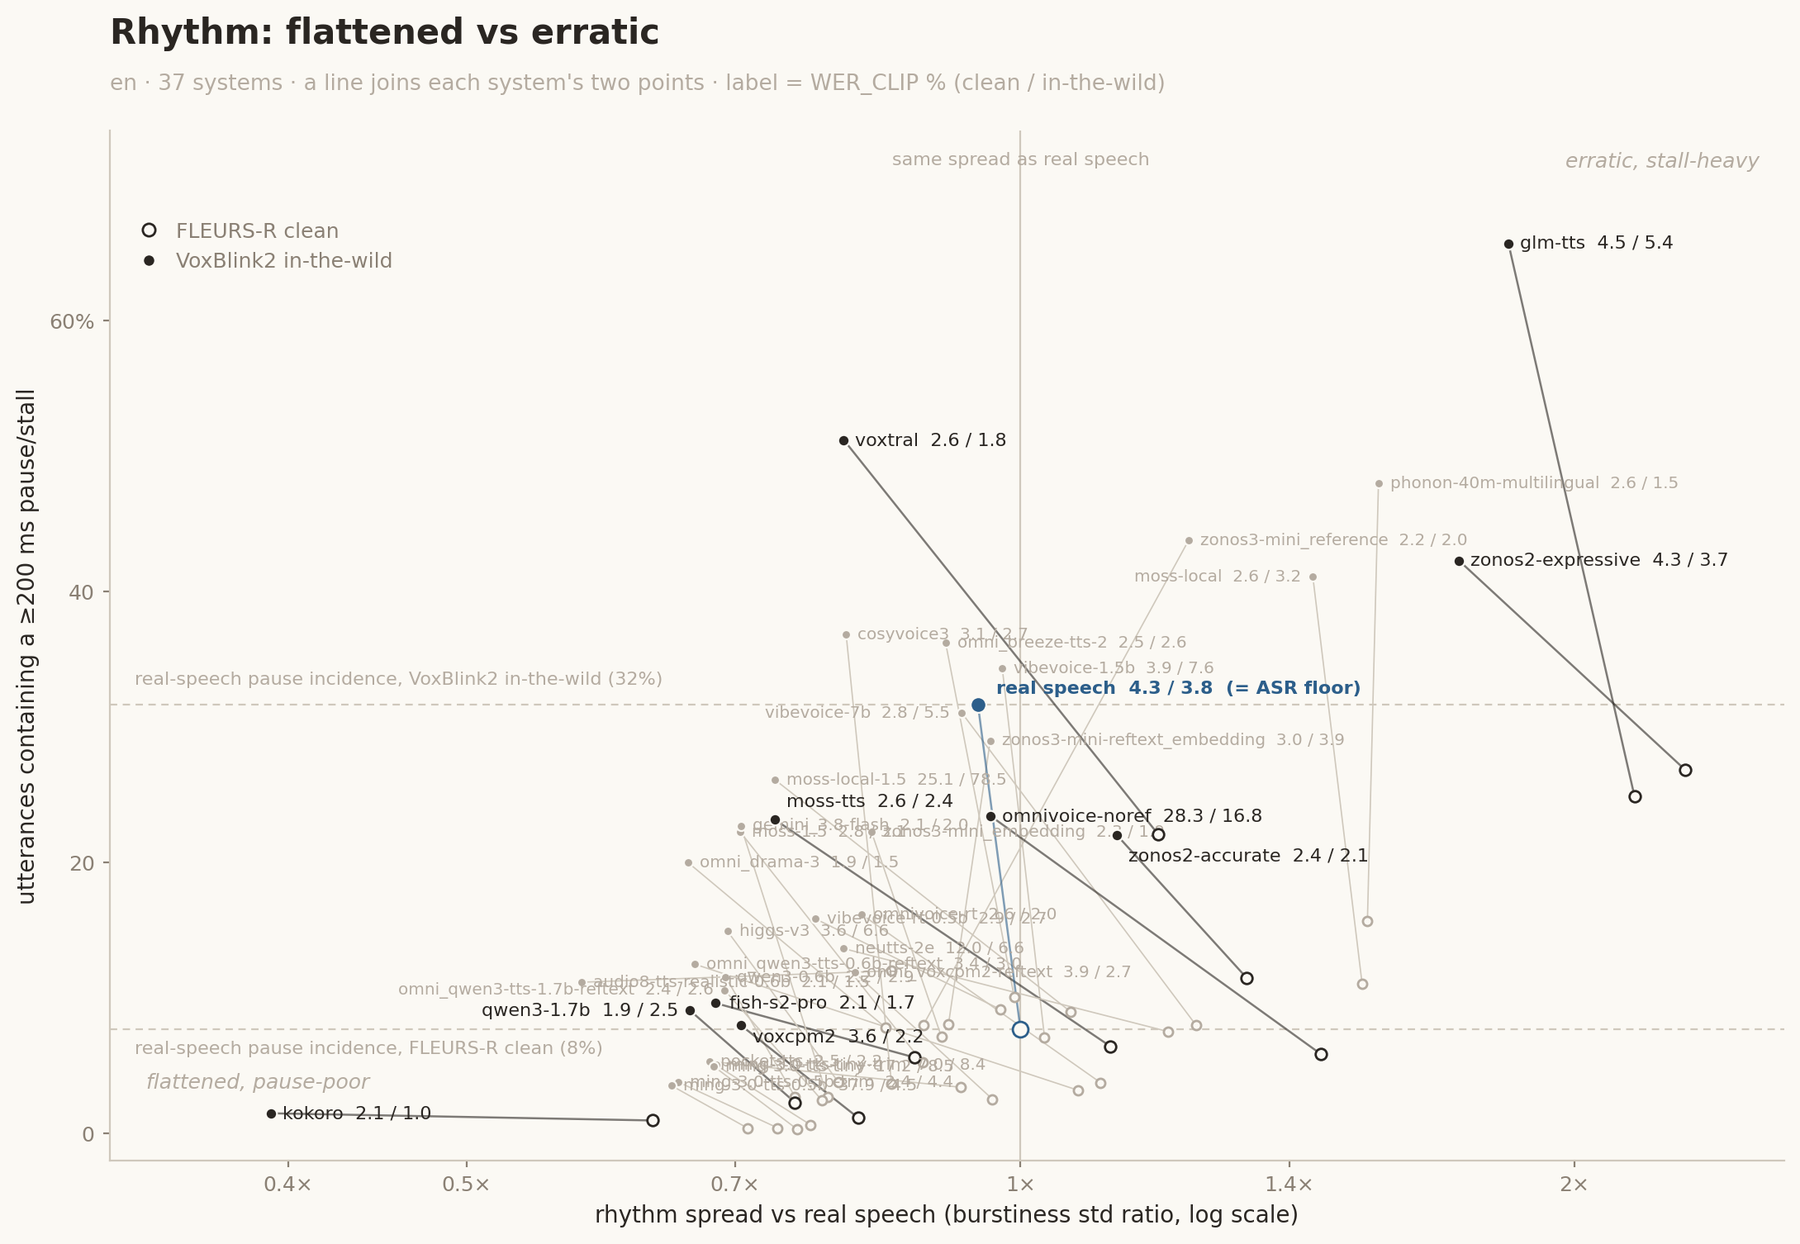
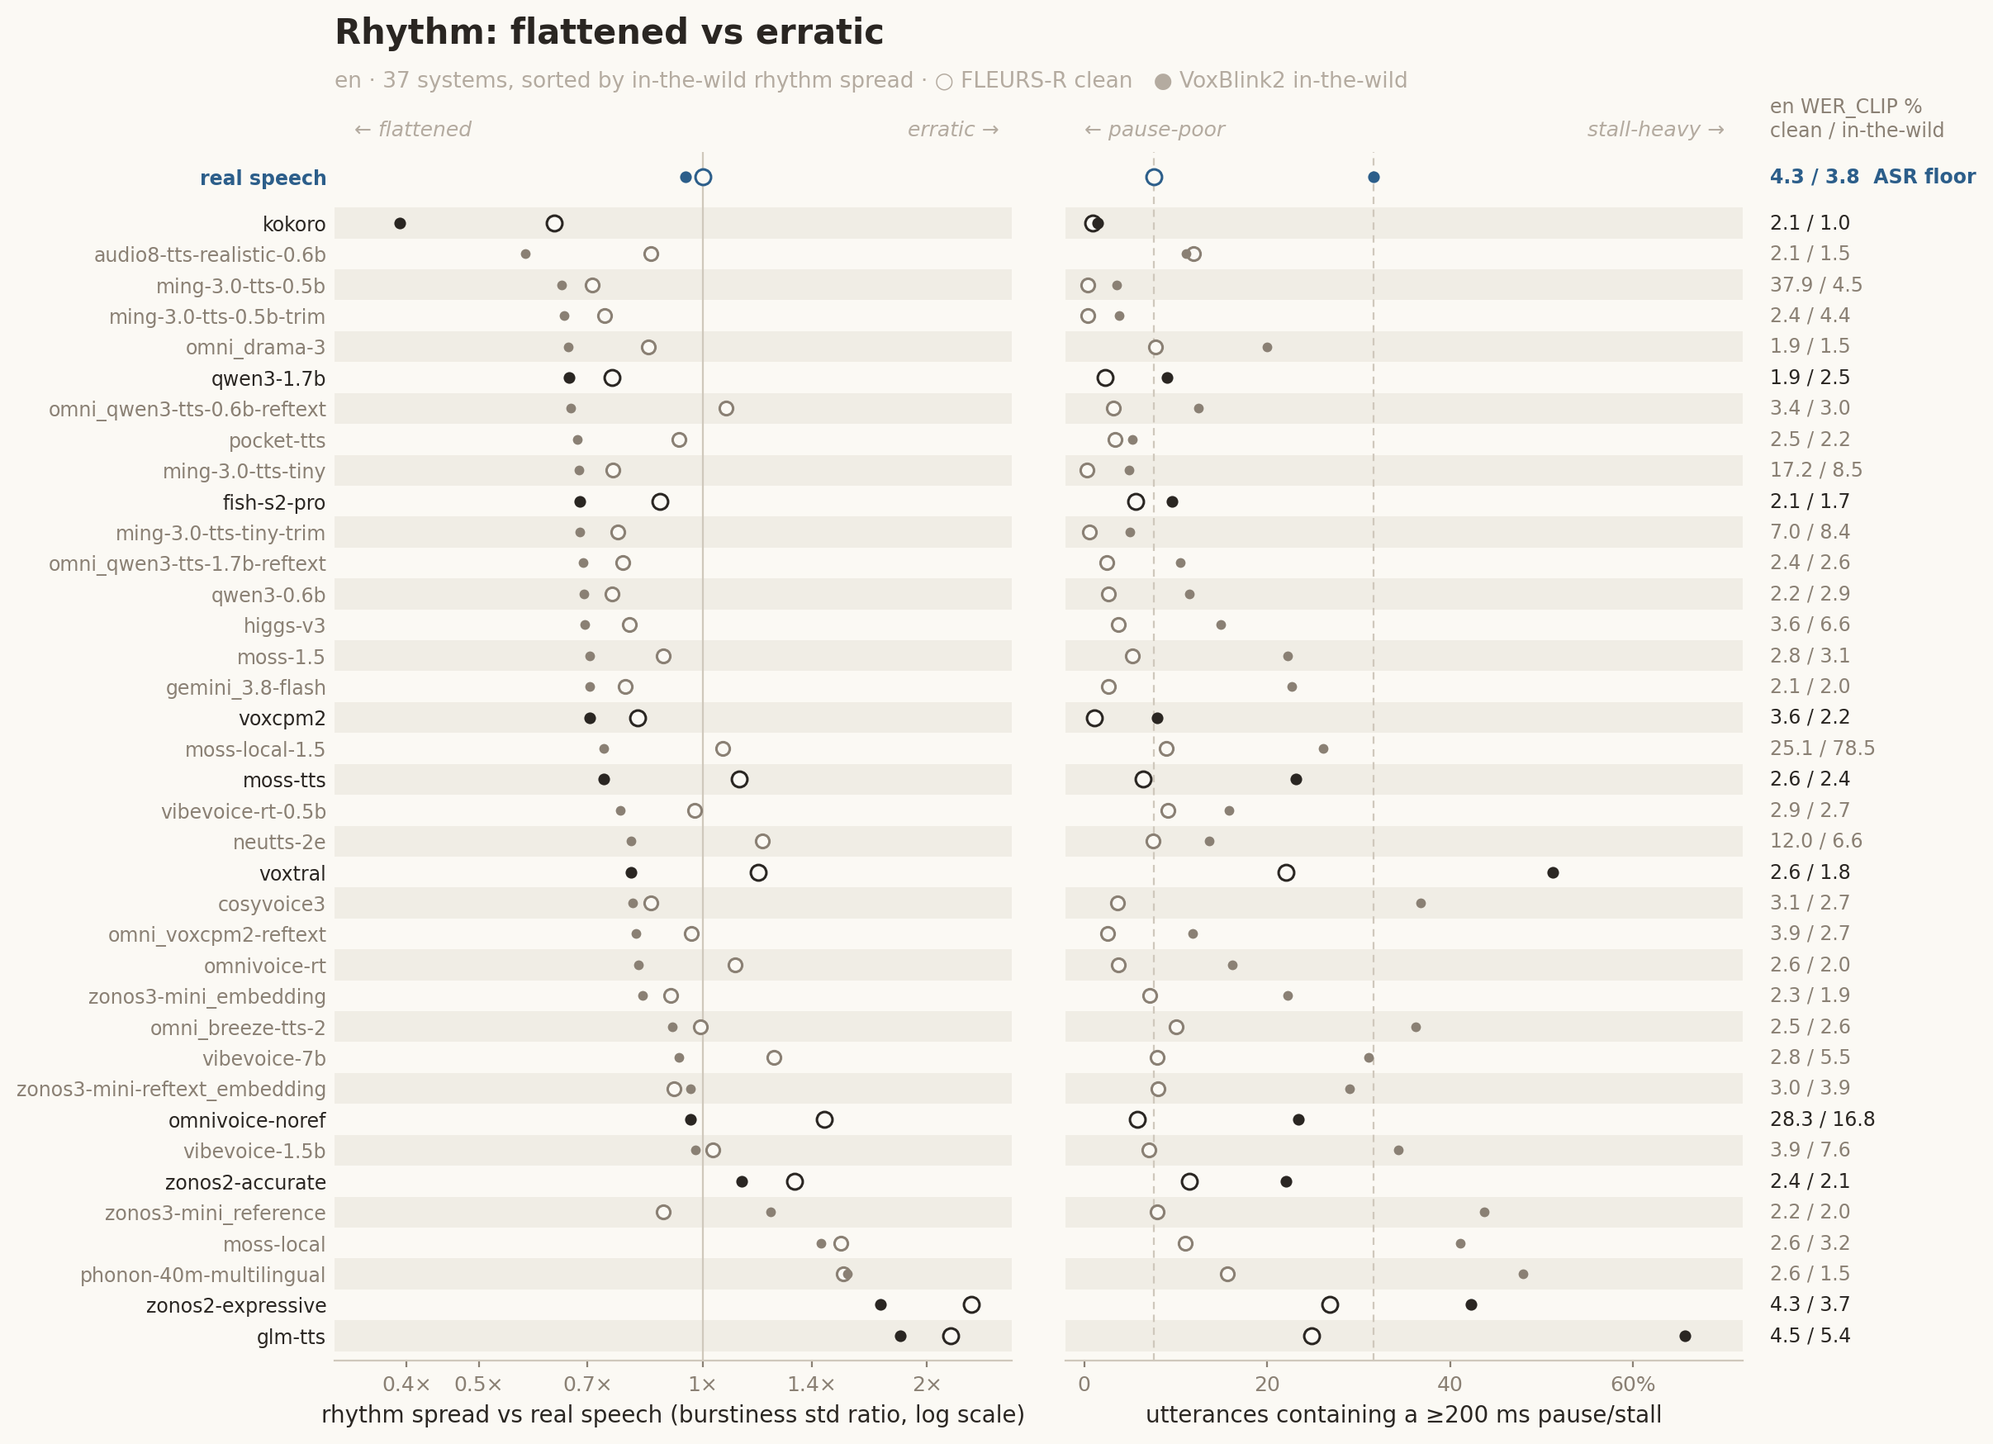
plots: redraw the rhythm figure as a row-per-system dot plot
- One row per system (sorted by in-the-wild spread), spread and pause-incidence columns, hollow = clean and filled = in-the-wild on the same row, WER_CLIP clean / in-the-wild in its own column; no connector lines or floating labels.
- Real speech is the blue top row plus reference lines; the per-plot label NUDGE tables are gone.
- docs/rhythm.md summary describes the new layout.

diff --git a/scripts/plots/plot_rhythm_scatter.py b/scripts/plots/plot_rhythm_scatter.py
@@ -1,14 +1,14 @@
-"""Rhythm flattened-vs-erratic scatter: FLEURS-R clean and VoxBlink2 in-the-wild on one plot.
+"""Rhythm flattened-vs-erratic dot plot: FLEURS-R clean and VoxBlink2 in-the-wild.
 
-One dot per system and set: x = burstiness std_ratio (system spread / real-speech
-spread, log scale — < 1 is rhythm flattened, > 1 erratic), y = long_pct (% of
-utterances containing a >=200 ms pause/stall run). Clean points are hollow,
-in-the-wild points filled, and a line joins each system's two points; the label sits
-on the in-the-wild point and carries the system's WER_CLIP on both sets. The blue
-pair is real speech: the GT target recordings where the set has them (in-the-wild),
-else the reference prompts' split-half row (clean, whose GT wavs are the prompts and
-are not scored). Lower-left = flattened, pause-poor; upper-right = erratic,
-stall-heavy; good = near the real-speech point of the same set.
+One row per system, sorted by in-the-wild rhythm spread (flattened on top, erratic at
+the bottom). Left: burstiness std_ratio (system spread / real-speech spread, log scale —
+< 1 is rhythm flattened, > 1 erratic). Right: long_pct (% of utterances containing a
+>=200 ms pause/stall run). Each row carries a hollow marker for clean and a filled one
+for in-the-wild, and the column on the right prints the system's WER_CLIP on both
+sets. The blue top row is real speech: the GT target recordings where the set has them
+(in-the-wild), else the reference prompts' split-half row (clean, whose GT wavs are the
+prompts and are not scored); its values are also drawn as reference lines. Good = close
+to the real-speech markers of the same set.
 
 Reads results/rhythm_<set>_<lang>.csv (scripts/prosody/rhythm_dist.py output).
 
@@ -29,8 +29,7 @@ import sys
 from pathlib import Path
 REPO = str(Path(__file__).resolve().parents[2])
 sys.path.insert(0, REPO)
-from matplotlib.lines import Line2D  # noqa: E402
-from scripts.plots.tufte_common import PAPER, INK, MUT, GREY, MID, BLUE  # noqa: E402
+from scripts.plots.tufte_common import PAPER, INK, MUT, GREY, ENS, MID, BLUE  # noqa: E402
 from scripts.prosody.common import CEILING_ROW  # noqa: E402
 from utils.benchmark import leaf_dir, wer_footer  # noqa: E402
 
@@ -63,57 +62,6 @@ FOREGROUND = {
 }
 
 SET_LABEL = {"clean": "FLEURS-R clean", "in-the-wild": "VoxBlink2 in-the-wild"}
-
-# label offset (points) and horizontal alignment per plot and system, tuned by eye.
-# default is a small right-offset; entries here override collisions. "both" is the
-# merged plot, labelled at the in-the-wild points.
-NUDGE = {
-    "both": {
-        "real speech": (8, 7, "left"),
-        "moss-tts": (5, 8, "left"),
-        "zonos2-accurate": (5, -9, "left"),
-        "qwen3-1.7b": (-5, 0, "right"),
-        "fish-s2-pro": (6, 0, "left"),
-        "voxcpm2": (5, -5, "left"),
-        "omni_qwen3-tts-1.7b-reftext": (-5, 0, "right"),
-        "vibevoice-7b": (-5, 0, "right"),
-        "moss-local": (-5, 0, "right"),
-    },
-    "in-the-wild": {
-        "GT (real speech)": (8, 7, "left"),
-        "moss-1.5": (-5, 0, "right"),
-        "qwen3-0.6b": (5, 4, "left"),
-        "fish-s2-pro": (6, 2, "left"),
-        "qwen3-1.7b": (5, -1, "left"),
-        "voxcpm2": (5, -5, "left"),
-        "zonos2-expressive": (-5, 0, "right"),
-        "vibevoice-7b": (-5, 0, "right"),
-        "cosyvoice3": (-5, 0, "right"),
-        "higgs-v3": (-5, 0, "right"),
-    },
-    "clean": {
-        "real speech (reference prompts)": (6, 9, "left"),
-        "kokoro": (-5, 0, "right"),
-        "qwen3-1.7b": (-5, 0, "right"),
-        "fish-s2-pro": (-5, 0, "right"),
-        "moss-tts": (5, -4, "left"),
-        "zonos2-accurate": (5, 5, "left"),
-        "moss-local": (5, -3, "left"),
-        "moss-1.5": (5, -4, "left"),
-        "omni_breeze-tts-2": (-5, 0, "right"),
-        "omni_drama-3": (-5, 0, "right"),
-        "vibevoice-rt-0.5b": (-5, 0, "right"),
-        "vibevoice-1.5b": (5, -4, "left"),
-        "moss-local-1.5": (-5, 0, "right"),
-        "zonos3-mini_reference": (-5, 0, "right"),
-        "zonos3-mini_embedding": (5, -4, "left"),
-        "zonos3-mini-reftext_embedding": (-5, 0, "right"),
-        "ming-3.0-tts-0.5b": (5, -4, "left"),
-        "ming-3.0-tts-0.5b-trim": (5, -4, "left"),
-        "ming-3.0-tts-tiny": (5, -4, "left"),
-        "ming-3.0-tts-tiny-trim": (5, -4, "left"),
-    },
-}
 
 
 def wer_clip(system, test_set, lang):
@@ -150,102 +98,108 @@ def load(csv_path, test_set, lang):
     return rows, anchor
 
 
-def draw(ax, data, lang):
-    """data = [(test_set, rows, anchor)]. With two sets each system's points are joined
-    (first set hollow, second filled) and labelled once, at the second set's point."""
+def draw(ax_x, ax_y, data, lang):
+    """data = [(test_set, rows, anchor)]. One row per system; with two sets the first is
+    drawn hollow and the second filled on the same row."""
     two = len(data) == 2
     sets = [s for s, _, _ in data]
-    ax.set_facecolor(PAPER)
-    ax.set_xscale("log")
-    ax.set_xlim(0.32, 2.6)
-    ax.set_ylim(-2, 74)
-
-    # reference geometry: spread parity line + each set's real-speech pause incidence
-    ax.axvline(1.0, color=GREY, lw=0.8, zorder=1)
-    ax.text(1.0, 72.5, "same spread as real speech", color=MUT, fontsize=8,
-            ha="center", va="top")
-    for test_set, _, anchor in data:
-        ax.axhline(anchor["y"], color=GREY, lw=0.8, ls=(0, (4, 3)), zorder=1)
-        which = f", {SET_LABEL[test_set]}" if two else ""
-        below = two and test_set == sets[0]    # keeps the space above it for labels
-        ax.text(0.33, anchor["y"] + (-0.8 if below else 1.2),
-                f"real-speech pause incidence{which} ({anchor['y']:.0f}%)",
-                color=MUT, fontsize=8, ha="left", va="top" if below else "bottom")
-
-    # regime annotations
-    ax.text(0.335, 3.0 if two else 3.5, "flattened, pause-poor",
-            color=MUT, fontsize=9, ha="left", va="bottom", style="italic")
-    ax.text(2.52, 72.5, "erratic, stall-heavy", color=MUT, fontsize=9,
-            ha="right", va="top", style="italic")
-
-    # one series per system across the sets; the two real-speech anchors form one series
     series = {}
-    for test_set, rows, anchor in data:
-        for r in rows + [anchor]:
-            name = "real speech" if two and r.get("anchor") else r["system"]
-            series.setdefault(name, []).append((test_set, r))
+    for test_set, rows, _ in data:
+        for r in rows:
+            series.setdefault(r["system"], {})[test_set] = r
+    key = sets[-1]   # sort by the last set's spread: flattened on top, erratic at the bottom
+    order = sorted(series, key=lambda n: (series[n].get(key) or next(iter(series[n].values())))["x"])
+    real = "real speech" if two else data[0][2]["system"]
+    rows = [(real, {s: a for s, _, a in data})] + [(n, series[n]) for n in order]
+    ys = [0] + [i + 1.5 for i in range(len(order))]   # a gap under the real-speech row
 
-    nudge = NUDGE["both"] if two else NUDGE.get(sets[0], {})
-    for name, pts in series.items():
-        is_anchor = pts[0][1].get("anchor", False)
-        fg = is_anchor or name in FOREGROUND
-        color = BLUE if is_anchor else (INK if fg else MUT)
-        if len(pts) == 2:
-            ax.plot([r["x"] for _, r in pts], [r["y"] for _, r in pts],
-                    color=color if fg else GREY, lw=0.9 if fg else 0.6,
-                    alpha=0.6 if fg else 1.0, zorder=1.5)
-        for test_set, r in pts:
-            hollow = two and test_set == sets[0]
-            ax.scatter(r["x"], r["y"], s=46 if is_anchor else (24 if fg else 16),
-                       facecolors=PAPER if hollow else color,
-                       edgecolors=color if hollow else PAPER,
-                       linewidths=1.0 if hollow else 0.8, zorder=3 if fg else 2)
-        # Tufte: WER rides in the label as printed data, not a size/color code
-        wers = [r["wer"] for _, r in pts]
-        label = name
-        if any(w is not None for w in wers):
-            label += "  " + " / ".join("—" if w is None else f"{w:.1f}" for w in wers)
-            label += "  (= ASR floor)" if is_anchor else ""
-        last = pts[-1][1]
-        dx, dy, ha = nudge.get(name, (5, 0, "left"))
-        ax.annotate(label, (last["x"], last["y"]),
-                    xytext=(dx, dy), textcoords="offset points",
-                    fontsize=8 if fg else 7.2, color=color,
-                    fontweight="bold" if is_anchor else "normal",
-                    ha=ha, va="center", zorder=4 if fg else 3)
+    def style(name):
+        if name == real:
+            return BLUE, True
+        return (INK, True) if name in FOREGROUND else (MID, False)
 
-    ax.set_xticks([0.4, 0.5, 0.7, 1.0, 1.4, 2.0])
-    ax.set_xticklabels(["0.4×", "0.5×", "0.7×", "1×", "1.4×", "2×"])
-    ax.minorticks_off()
-    ax.set_yticks([0, 20, 40, 60])
-    ax.set_yticklabels(["0", "20", "40", "60%"])
-    ax.tick_params(colors=MID, labelsize=9, length=3)
-    for side in ("top", "right"):
-        ax.spines[side].set_visible(False)
-    for side in ("left", "bottom"):
-        ax.spines[side].set_color(GREY)
+    for ax in (ax_x, ax_y):
+        ax.set_facecolor(PAPER)
+        for i, y in enumerate(ys[1:]):
+            if i % 2 == 0:
+                ax.axhspan(y - 0.5, y + 0.5, color=ENS, alpha=0.35, lw=0, zorder=0)
+        ax.tick_params(colors=MID, labelsize=9, length=3)
+        ax.tick_params(axis="y", length=0)
+        for side in ("top", "right", "left"):
+            ax.spines[side].set_visible(False)
+        ax.spines["bottom"].set_color(GREY)
+    ax_x.set_ylim(ys[-1] + 0.8, -0.8)
 
-    ax.set_xlabel("rhythm spread vs real speech (burstiness std ratio, log scale)",
-                  color=INK, fontsize=10)
-    ax.set_ylabel("utterances containing a ≥200 ms pause/stall", color=INK, fontsize=10)
+    for (name, by_set), y in zip(rows, ys):
+        color, fg = style(name)
+        for k, test_set in enumerate(sets):
+            r = by_set.get(test_set)
+            if r is None:
+                continue
+            hollow = two and k == 0
+            for ax, v in ((ax_x, r["x"]), (ax_y, r["y"])):
+                ax.scatter(v, y, s=(46 if fg else 34) if hollow else (26 if fg else 18),
+                           facecolors=PAPER if hollow else color,
+                           edgecolors=color, linewidths=1.1 if hollow else 0,
+                           zorder=3 if hollow else 4)
+        wers = [by_set[s]["wer"] if s in by_set else None for s in sets]
+        txt = " / ".join("—" if w is None else f"{w:.1f}" for w in wers)
+        if name == real:
+            txt += "  ASR floor"
+        ax_y.annotate(txt, (1.0, y), xycoords=("axes fraction", "data"), xytext=(12, 0),
+                      textcoords="offset points", ha="left", va="center", fontsize=8.5,
+                      color=color, fontweight="bold" if name == real else "normal")
+
+    ax_x.set_yticks(ys)
+    ax_x.set_yticklabels([n for n, _ in rows], fontsize=8.5)
+    for lab, (name, _) in zip(ax_x.get_yticklabels(), rows):
+        lab.set_color(style(name)[0])
+        if name == real:
+            lab.set_fontweight("bold")
+
+    # spread: log axis around parity with real speech
+    ax_x.set_xscale("log")
+    ax_x.set_xlim(0.32, 2.6)
+    ax_x.set_xticks([0.4, 0.5, 0.7, 1.0, 1.4, 2.0])
+    ax_x.set_xticklabels(["0.4×", "0.5×", "0.7×", "1×", "1.4×", "2×"])
+    ax_x.minorticks_off()
+    ax_x.axvline(1.0, color=GREY, lw=0.8, zorder=1)
+    ax_x.set_xlabel("rhythm spread vs real speech (burstiness std ratio, log scale)",
+                    color=INK, fontsize=10)
+
+    # pause incidence: one reference line per set at its real-speech value
+    ax_y.set_xlim(-2, 72)
+    ax_y.set_xticks([0, 20, 40, 60])
+    ax_y.set_xticklabels(["0", "20", "40", "60%"])
+    for test_set, _, anchor in data:
+        ax_y.axvline(anchor["y"], color=GREY, lw=0.8, ls=(0, (4, 3)), zorder=1)
+    ax_y.set_xlabel("utterances containing a ≥200 ms pause/stall", color=INK, fontsize=10)
+
+    # direction words above each column, and the WER column header
+    def head(ax, x, s, ha):
+        ax.annotate(s, (x, 1.0), xycoords=("data", "axes fraction"), xytext=(0, 5),
+                    textcoords="offset points", ha=ha, va="bottom", fontsize=9,
+                    color=MUT, style="italic")
+    head(ax_x, 0.34, "← flattened", "left")
+    head(ax_x, 2.5, "erratic →", "right")
+    head(ax_y, 0, "← pause-poor", "left")
+    head(ax_y, 70, "stall-heavy →", "right")
+    ax_y.annotate("en WER_CLIP %" + ("\nclean / in-the-wild" if two else ""), (1.0, 1.0),
+                  xycoords="axes fraction", xytext=(12, 5), textcoords="offset points",
+                  ha="left", va="bottom", fontsize=8.5, color=MID)
 
     if two:
-        n = len(data[0][1])
-        sub = (f"{lang} · {n} systems · a line joins each system's two points · "
-               f"label = WER_CLIP % ({sets[0]} / {sets[1]})")
-        ax.legend(handles=[
-            Line2D([], [], ls="", marker="o", ms=5.5, mfc=PAPER, mec=INK, mew=1.0,
-                   label=SET_LABEL[sets[0]]),
-            Line2D([], [], ls="", marker="o", ms=5.5, mfc=INK, mec=PAPER,
-                   label=SET_LABEL[sets[1]])],
-            loc="upper left", bbox_to_anchor=(0.0, 0.93), frameon=False, fontsize=9,
-            labelcolor=MID, handletextpad=0.3)
+        sub = (f"{lang} · {len(order)} systems, sorted by in-the-wild rhythm spread · "
+               f"○ {SET_LABEL[sets[0]]}   ● {SET_LABEL[sets[1]]}")
     else:
-        rows = data[0][1]
-        ns = [r["n"] for r in rows]
-        sub = (f"{SET_LABEL[sets[0]]} · {lang} · {len(rows)} systems, "
-               f"{min(ns)}–{max(ns)} heard utterances each · label = WER_CLIP %")
-    ax.text(0, 1.04, sub, transform=ax.transAxes, color=MUT, fontsize=9.5)
+        ns = [r["n"] for r in data[0][1]]
+        sub = (f"{SET_LABEL[sets[0]]} · {lang} · {len(order)} systems, "
+               f"{min(ns)}–{max(ns)} heard utterances each, sorted by rhythm spread")
+    for s, dy, size, weight, color in (("Rhythm: flattened vs erratic", 44, 15, "bold", INK),
+                                       (sub, 26, 9.5, "normal", MUT)):
+        ax_x.annotate(s, (0, 1.0), xycoords="axes fraction", xytext=(0, dy),
+                      textcoords="offset points", ha="left", va="bottom", fontsize=size,
+                      fontweight=weight, color=color)
 
 
 def main():
@@ -265,13 +219,13 @@ def main():
         csv_path = os.path.join(REPO, "results", f"rhythm_{test_set}_{args.lang}.csv")
         data.append((test_set, *load(csv_path, test_set, args.lang)))
 
-    fig, ax = plt.subplots(figsize=(11.0, 7.6) if len(sets) == 2 else (9.6, 7.0), dpi=200)
+    n_rows = len({r["system"] for _, rows, _ in data for r in rows}) + 1
+    fig, (ax_x, ax_y) = plt.subplots(1, 2, sharey=True, dpi=200,
+                                     figsize=(11.0, 1.9 + 0.2 * n_rows),
+                                     gridspec_kw=dict(wspace=0.08))
     fig.patch.set_facecolor(PAPER)
-    draw(ax, data, args.lang)
-    ax.text(0, 1.085, "Rhythm: flattened vs erratic",
-            transform=ax.transAxes, color=INK, fontsize=15, fontweight="bold")
+    draw(ax_x, ax_y, data, args.lang)
 
-    fig.tight_layout()
     os.makedirs(os.path.dirname(out), exist_ok=True)
     fig.savefig(out, facecolor=PAPER, bbox_inches="tight")
     print(f"-> {out}")

diff --git a/docs/rhythm.md b/docs/rhythm.md
@@ -106,22 +106,22 @@ known answer. Cells = W2 d_ref as a multiple of the untouched-half null
 
 ![rhythm spread vs pause incidence, clean and in-the-wild](../assets/plots/rhythm_flatten_vs_stall_clean_vs_in-the-wild_en.png)
 
-`scripts/plots/plot_rhythm_scatter.py` — two dots per system on one plot: burstiness
-std_ratio (log x, 1.0 = same spread as real speech) against pause incidence (% of
-utterances with a ≥ 200 ms run), hollow on FLEURS-R clean and filled on VoxBlink2
-in-the-wild, joined by a line. Each label sits on the in-the-wild dot and carries the
-system's en WER_CLIP as clean / in-the-wild. The blue pair is real speech: on clean,
-whose GT wavs are the prompts, the reference split-half row (1.0× / 7.7 %); in the wild,
-the GT target recordings (0.95× / 31.7 %). Each set's real-speech pause incidence is a
-dashed line.
+`scripts/plots/plot_rhythm_scatter.py` — one row per system, sorted by in-the-wild
+rhythm spread (flattened on top, erratic at the bottom). The left column is burstiness
+std_ratio (log x, 1.0 = same spread as real speech), the right column pause incidence
+(% of utterances with a ≥ 200 ms run); each row has a hollow marker for FLEURS-R clean
+and a filled one for VoxBlink2 in-the-wild, and the last column prints the system's en
+WER_CLIP as clean / in-the-wild. The blue top row is real speech: on clean, whose GT
+wavs are the prompts, the reference split-half row (1.0× / 7.7 %); in the wild, the GT
+target recordings (0.95× / 31.7 %). Its pause incidences are the dashed lines.
 
-Both sets show the same two failure modes: flattened, pause-poor systems lower-left
-(kokoro at the extreme, 0.63× / 1.0 % clean and 0.39× / 1.5 % in the wild) and erratic,
-stall-heavy ones upper-right (zonos2-expressive 2.30× / 26.8 % clean, glm-tts 1.84× /
-65.7 % in the wild). In-the-wild spreads them further apart because real VoxBlink2 speech
-pauses about four times as often as FLEURS-R read speech. Good = near the real-speech dot
-of the same set, not at either extreme. Rhythm spread is at most a weak correlate of WER:
-over the 37 systems of each set, Spearman(std_ratio, en WER_CLIP) is +0.31 on clean and
+Both sets show the same two failure modes: flattened, pause-poor systems (kokoro at the
+extreme, 0.63× / 1.0 % clean and 0.39× / 1.5 % in the wild) and erratic, stall-heavy
+ones (zonos2-expressive 2.30× / 26.8 % clean, glm-tts 1.84× / 65.7 % in the wild).
+In-the-wild spreads them further apart because real VoxBlink2 speech pauses about four
+times as often as FLEURS-R read speech. Good = close to the real-speech markers of the
+same set, not at either extreme. Rhythm spread is at most a weak correlate of WER: over
+the 37 systems of each set, Spearman(std_ratio, en WER_CLIP) is +0.31 on clean and
 +0.16 in the wild, and pause incidence vs WER is ≈ 0.
 
 ## The intuition views: held-time spectrum + barcode
